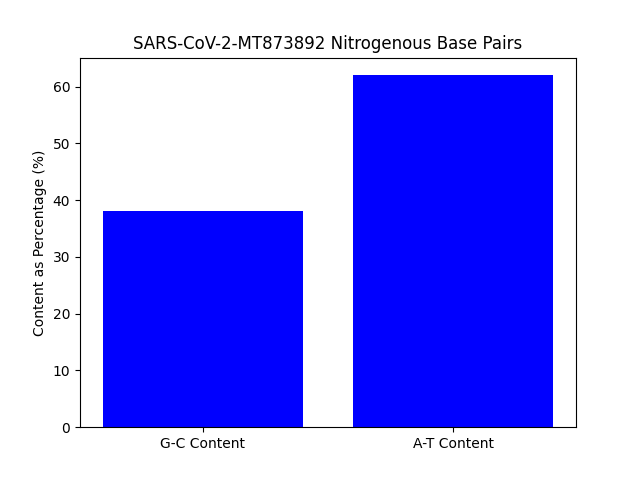
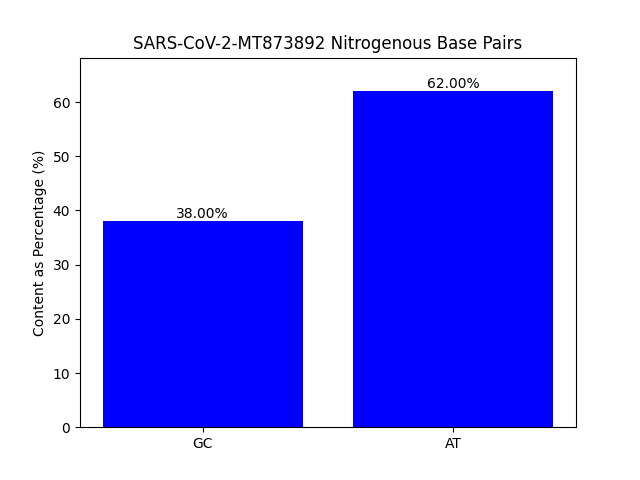
GC AT Content graphs improved

diff --git a/Nucleotides.py b/Nucleotides.py
@@ -4,7 +4,7 @@ import StandardFunctions as sf
 
 # Constants - appropriate referencing (e.g. iteration, print, file name, visual)
 BASE = ['A', 'C', 'G', 'T']  # Nitrogenous Bases
-BASE_NAME = {"A": "Adenine", "C": "Cytosine", "G": "Guanine", "T": "Thymine"}
+BASE_NAME = {'A': "Adenine", 'C': "Cytosine", 'G': "Guanine", 'T': "Thymine"}
 POLYNUCLEOTIDE = {1: "Nucleotide", 2: "Dinucleotide", 3: "Trinucleotide", 4: "Tetranucleotide", 5: "Pentanucleotide",
                   6: "Hexanuceotide"}
 POLYMER = {2: "dimers", 3: "trimers", 4: "tetramers", 5: "pentamers", 6: "hexamers"}  # lower-case for file names
@@ -62,16 +62,19 @@ def base_content(name):
     :param str name: name of genome
     """
     sequence = sf.dna_sequence(name)
+    print("unique chars: ", len(set(sequence)))  # 4
 
+    base_content = []
     for n in BASE:
         n_count = sequence.count(n)
         n_comp = round(n_count / len(sequence) * 100, 2)
+        base_content.append(n_comp)
         print(BASE_NAME[n] + " Composition: " + str(n_comp) + "%")
 
-    bases_content_plot(name, sequence)
+    base_content_plot(name, sequence)
 
 
-def bases_content_plot(name, sequence):
+def base_content_plot(name, sequence):
     """Nitrogenous Bases - AT/GC Ratio:
     Guanine & Cytosine as % of DNA (always paired together),
     Adenine & Thymine as % of DNA (always paired together).
@@ -80,22 +83,25 @@ def bases_content_plot(name, sequence):
     :param list sequence: DNA as individual monomer bases
     """
     # Data
-    gc = ((sequence.count("G") + sequence.count("C")) / len(sequence)) * 100  # GC Content (%)
-    at = ((sequence.count("A") + sequence.count("T")) / len(sequence)) * 100  # AT Content (%)
-    # ratio = (sequence.count("A") + sequence.count("T")) / (sequence.count("G") + sequence.count("C"))
+    gc = ((sequence.count('G') + sequence.count('C')) / len(sequence)) * 100
+    at = ((sequence.count('A') + sequence.count('T')) / len(sequence)) * 100
 
     # Plot
     plt.title(name + " Nitrogenous Base Pairs")
     plt.ylabel("Content as Percentage (%)")
-    x = ["G-C Content", "A-T Content"]
+    x = ["GC", "AT"]
     y = [gc, at]
+    plt.margins(y=0.1)
     plt.bar(x, y, color='blue')
+
+    # Values
+    for i, v in enumerate(y): plt.text(i, v, str(f"\n{v:.2f}%"), ha='center', va='bottom')
 
     # Display & Save
     fig = plt.gcf()
     plt.draw()
     plt.show()
-    fig.savefig('data\\Content\\content_' + name + '.png', format='png')
+    fig.savefig('data/Content/content_' + name + '.png', format='png')
 
 
 def composition_comparison(polymer_len, *names):
@@ -147,7 +153,7 @@ def composition_comparison(polymer_len, *names):
     plt.show()
 
     output_name = sf.output_name(names)  # Appended to output filename
-    fig.savefig('data\\Composition\\' + POLYNUCLEOTIDE[polymer_num] + output_name + '.png', format='png')
+    fig.savefig('data/Composition/' + POLYNUCLEOTIDE[polymer_num] + output_name + '.png', format='png')
 
 
 def normalised_frequencies(polynucleotides, name, sequence):

diff --git a/main.py b/main.py
@@ -24,18 +24,18 @@ import test
 
 """ Nucleotide Composition """
 # AT/GC Content
-#Nucleotides.base_content("SARS-CoV-JQ316196")
-#Nucleotides.base_content("MERS-MT387202")
-#Nucleotides.base_content("SARS-CoV-2-MT873892")
+Nucleotides.base_content("SARS-CoV-JQ316196")
+Nucleotides.base_content("MERS-MT387202")
+Nucleotides.base_content("SARS-CoV-2-MT873892")
 
 
 #Nucleotides.base_combinations(2)  # Polymer Bases Combinations - 3, 4, 5, 6
 
-Nucleotides.composition_comparison(2, "SARS-CoV-JQ316196", "MERS-MT387202", "SARS-CoV-2-MT873892")
-Nucleotides.composition_comparison(3, "SARS-CoV-JQ316196", "MERS-MT387202", "SARS-CoV-2-MT873892")
-Nucleotides.composition_comparison(4, "SARS-CoV-JQ316196", "MERS-MT387202", "SARS-CoV-2-MT873892")
-Nucleotides.composition_comparison(5, "SARS-CoV-JQ316196", "MERS-MT387202", "SARS-CoV-2-MT873892")
-Nucleotides.composition_comparison(6, "SARS-CoV-JQ316196", "MERS-MT387202", "SARS-CoV-2-MT873892")
+#Nucleotides.composition_comparison(2, "SARS-CoV-JQ316196", "MERS-MT387202", "SARS-CoV-2-MT873892")
+#Nucleotides.composition_comparison(3, "SARS-CoV-JQ316196", "MERS-MT387202", "SARS-CoV-2-MT873892")
+#Nucleotides.composition_comparison(4, "SARS-CoV-JQ316196", "MERS-MT387202", "SARS-CoV-2-MT873892")
+#Nucleotides.composition_comparison(5, "SARS-CoV-JQ316196", "MERS-MT387202", "SARS-CoV-2-MT873892")
+#Nucleotides.composition_comparison(6, "SARS-CoV-JQ316196", "MERS-MT387202", "SARS-CoV-2-MT873892")
 
 
 """ Cluster Analysis """
